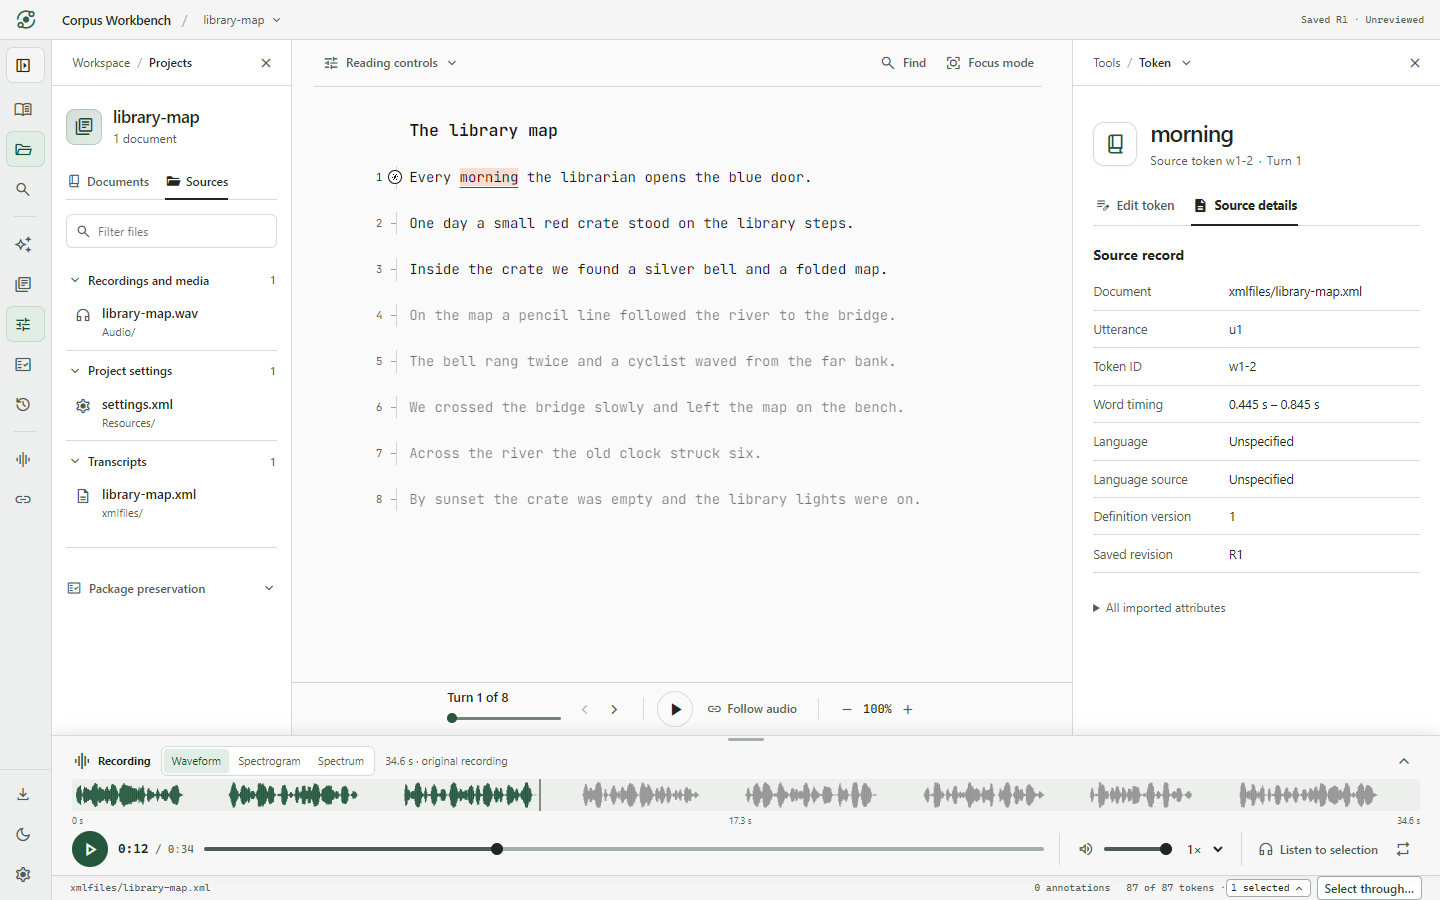
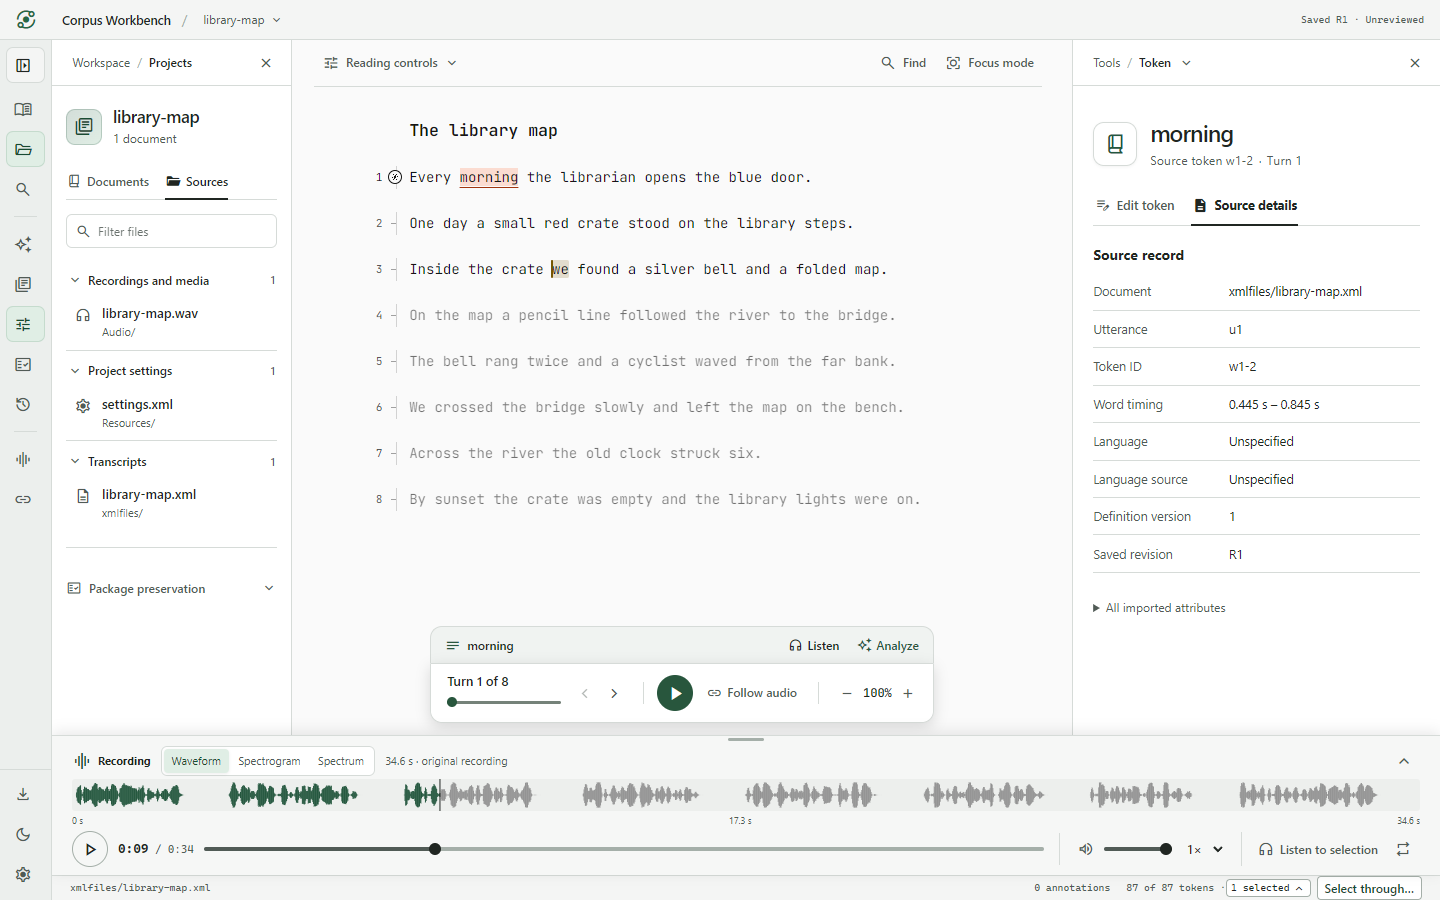
Keep the floating player primary while selections attach above it

diff --git a/ui/src/controls.css b/ui/src/controls.css
@@ -111,6 +111,14 @@ header .export-short{display:none}
   background:var(--accent); color:var(--paper);
 }
 .media-player .player-play:hover:not(:disabled) { background:var(--selection-ink); color:var(--paper) }
+#recording-pane:not([data-tool-transport]) .media-player .player-play {
+  background:transparent;
+  border:1px solid var(--control-edge);
+  color:var(--ink);
+}
+#recording-pane:not([data-tool-transport]) .media-player .player-play:hover:not(:disabled) {
+  background:var(--control-hover);
+}
 .player-play .material-symbol { font-size:23px }
 .player-time { flex:none; font:11px/1.25 var(--font-mono); font-variant-numeric:tabular-nums; white-space:nowrap; color:var(--muted) }
 .player-time b { font-size:13px; color:var(--ink); font-weight:650 }

diff --git a/ui/tests/passage-tools-layout.spec.ts b/ui/tests/passage-tools-layout.spec.ts
@@ -42,7 +42,9 @@ test.describe('touch passage tools',()=>{
       await page.route('**/api/reading?*',async route=>{await loading;await route.continue()},{times:1});
       await page.goto(practiceUrl);
       if(focus)await page.getByRole('button',{name:'Open reading canvas'}).tap();
-      const dock=page.locator('#canvas-tools');
+      // A selection may attach its passage above the player. The play and
+      // steering controls themselves stay under the same pointer coordinates.
+      const dock=page.locator('#canvas-tools .canvas-console');
       const before=await dock.boundingBox();
       showTranscript();
       await page.locator('[data-token="b3"] .reading-text').tap();

diff --git a/docs/CODEX-WORKSPACE-GOALS.md b/docs/CODEX-WORKSPACE-GOALS.md
@@ -61,6 +61,14 @@ On desktop, opening both drawers with the default widths preserved the reading
 measure. The screenshots use the spoken library-map fixture.
 [Desktop workspace](ui-audit/project-and-token-drawers.png) · [Phone inspector](ui-audit/token-drawer-phone.png)
 
+The floating player is the main playback control in both reading modes. A
+selected passage attaches above it with **Listen** and **Analyze** actions.
+On the spoken fixture, selecting “librarian opens” played the supplied
+0.945–2.135 s interval and opened co-analysis with token IDs w1-4 and w1-5.
+At 320px and 390px, the actions retained 44px touch targets and clearing the
+selection kept the transcript at its reading position.
+[Floating passage controls](ui-audit/floating-passage-controls.png)
+
 To repeat the browser exercises, build the UI and Rust binary, then run
 `npm run test:e2e --prefix ui`. The fresh-stage cases create a separate local
 authority per exercise. To repeat the Windows exercises, build and package the
